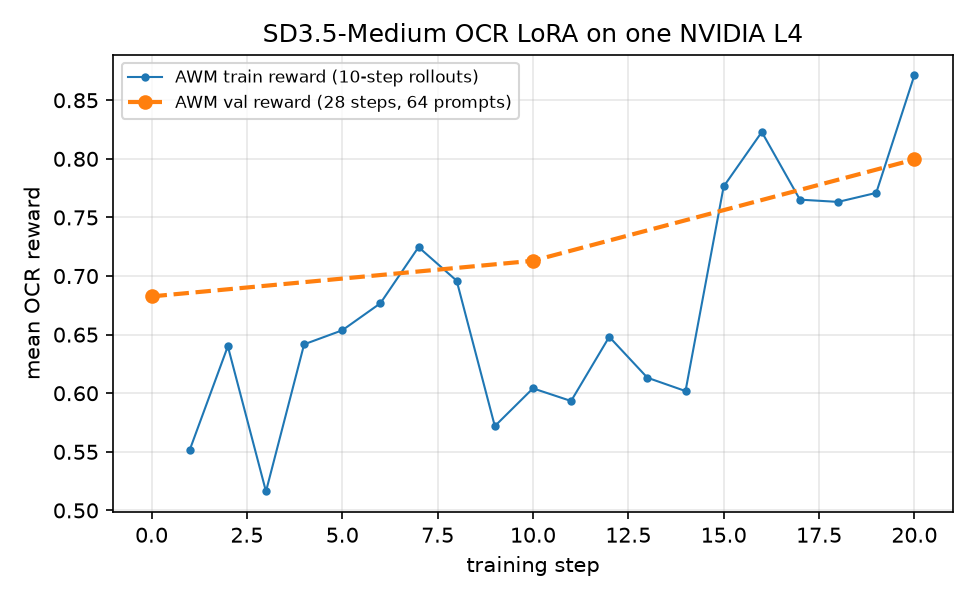
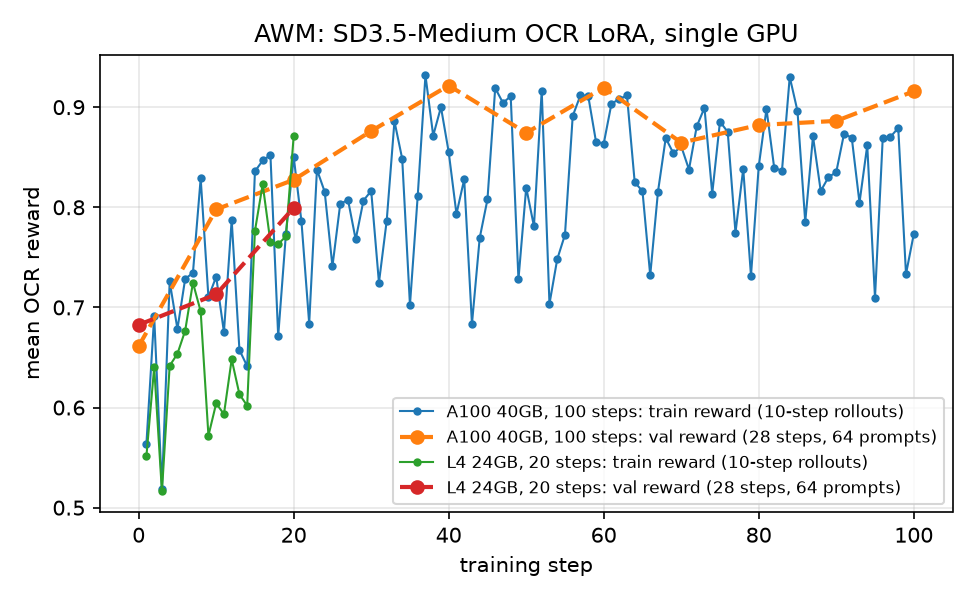
[recipe, doc] docs: add the 100-step A100 validation of the AWM SD3.5 recipe
Records a 100-step run on a single A100 40GB (Colab Pro, reward model colocated,
Ray logical CPUs raised for Colab's 12 vCPUs): 81 s per step and OCR validation
reward 0.661 at step 0, 0.922 at step 40 and 0.916 at step 100, next to the
earlier 20-step L4 run. The recipe's reward curve now shows both runs.

Refs #763

diff --git a/examples/awm_trainer/README.md b/examples/awm_trainer/README.md
@@ -61,19 +61,37 @@ batch sizes in the script are kept equal to the DGPO recipe for a side-by-side.
 
 ## Tested configuration
 
-- 1x NVIDIA L4 24GB (GCP g2-standard-16, 62GB RAM), driver 615.71, Linux, BF16
+### 100 steps on 1x A100 40GB (Colab Pro)
+
+- 1x NVIDIA A100-SXM4-40GB, 83GB host RAM, driver 580.82, Linux, BF16
 - Python 3.12, torch 2.13.0+cu132, vllm 0.30.0, vllm-omni 0.30.1.dev29+g12e928001,
   diffusers 0.40.0, transformers 5.14.1
-- Everything on the one GPU: `NUM_GPUS_ACTOR_ROLLOUT=1`, the reward model
-  colocated (`reward.reward_model.enable_resource_pool=False`,
-  `reward.models.ocr.offload=True`, served in fp8 via
-  `reward.models.ocr.rollout.engine_kwargs.vllm.quantization=fp8` at
-  `gpu_memory_utilization=0.4`), actor `fsdp_config.param_offload=True`, rollout
-  `engine_kwargs.vllm_omni.max_num_seqs=8`, attention `native` / `TORCH_SDPA`
-- A 20-step run of `sd35/run_sd35_medium_ocr_lora_v1.sh` in this setup, validating
-  on 64 test prompts at steps 0, 10 and 20, took 180 s per training step (rollout
-  81 s, reward 9 s, actor update 84 s); the OCR validation reward went from 0.683
-  at step 0 to 0.713 at step 10 and 0.799 at step 20, with the training-batch
-  reward rising from 0.55 to 0.87
+- Everything on the one GPU: `NUM_GPUS_ACTOR_ROLLOUT=1`, the reward model colocated
+  (`reward.reward_model.enable_resource_pool=False`, `reward.models.ocr.offload=True`,
+  `reward.models.ocr.rollout.gpu_memory_utilization=0.35`, `max_num_batched_tokens=4096`,
+  `max_num_seqs=16`), rollout `engine_kwargs.vllm_omni.max_num_seqs=16`,
+  `ray_kwargs.ray_init.num_cpus=32` (Colab exposes 12 vCPUs, fewer than the actors
+  request), `RAY_memory_monitor_refresh_ms=0`, attention `native` / `TORCH_SDPA`
+- `sd35/run_sd35_medium_ocr_lora_v1.sh` for 100 steps, validating on 64 test prompts
+  every 10 steps, took 81 s per training step (rollout 25 s, reward 7 s, actor
+  update 43 s). OCR validation reward:
 
-![AWM reward curve on one L4](sd35/reward_curve.png)
+  | step | 0 | 10 | 20 | 30 | 40 | 50 | 60 | 70 | 80 | 90 | 100 |
+  |---|---|---|---|---|---|---|---|---|---|---|---|
+  | reward | 0.661 | 0.798 | 0.827 | 0.876 | 0.922 | 0.874 | 0.920 | 0.865 | 0.882 | 0.886 | 0.916 |
+
+  The training-batch reward (10-step rollouts) rose from 0.73 (mean of steps 1-20) to
+  0.84 (steps 81-100). `actor/ratio_mean` stayed within 0.99-1.01, `actor/clip_frac`
+  0.2-0.5, `actor/ema_kl_loss` 5e-5 to 1.5e-3.
+
+### 20 steps on 1x L4 24GB (GCP g2-standard-16)
+
+- 1x NVIDIA L4 24GB, 62GB host RAM, driver 615.71, Linux, BF16; same Python stack
+- Reward model colocated and served in fp8
+  (`reward.models.ocr.rollout.engine_kwargs.vllm.quantization=fp8`,
+  `gpu_memory_utilization=0.4`), actor `fsdp_config.param_offload=True`, rollout
+  `engine_kwargs.vllm_omni.max_num_seqs=8`, a 32GB swapfile for host-RAM peaks
+- 180 s per training step (rollout 81 s, reward 9 s, actor update 84 s); OCR
+  validation reward 0.683 at step 0, 0.713 at step 10 and 0.799 at step 20
+
+![AWM reward curves](sd35/reward_curve.png)
